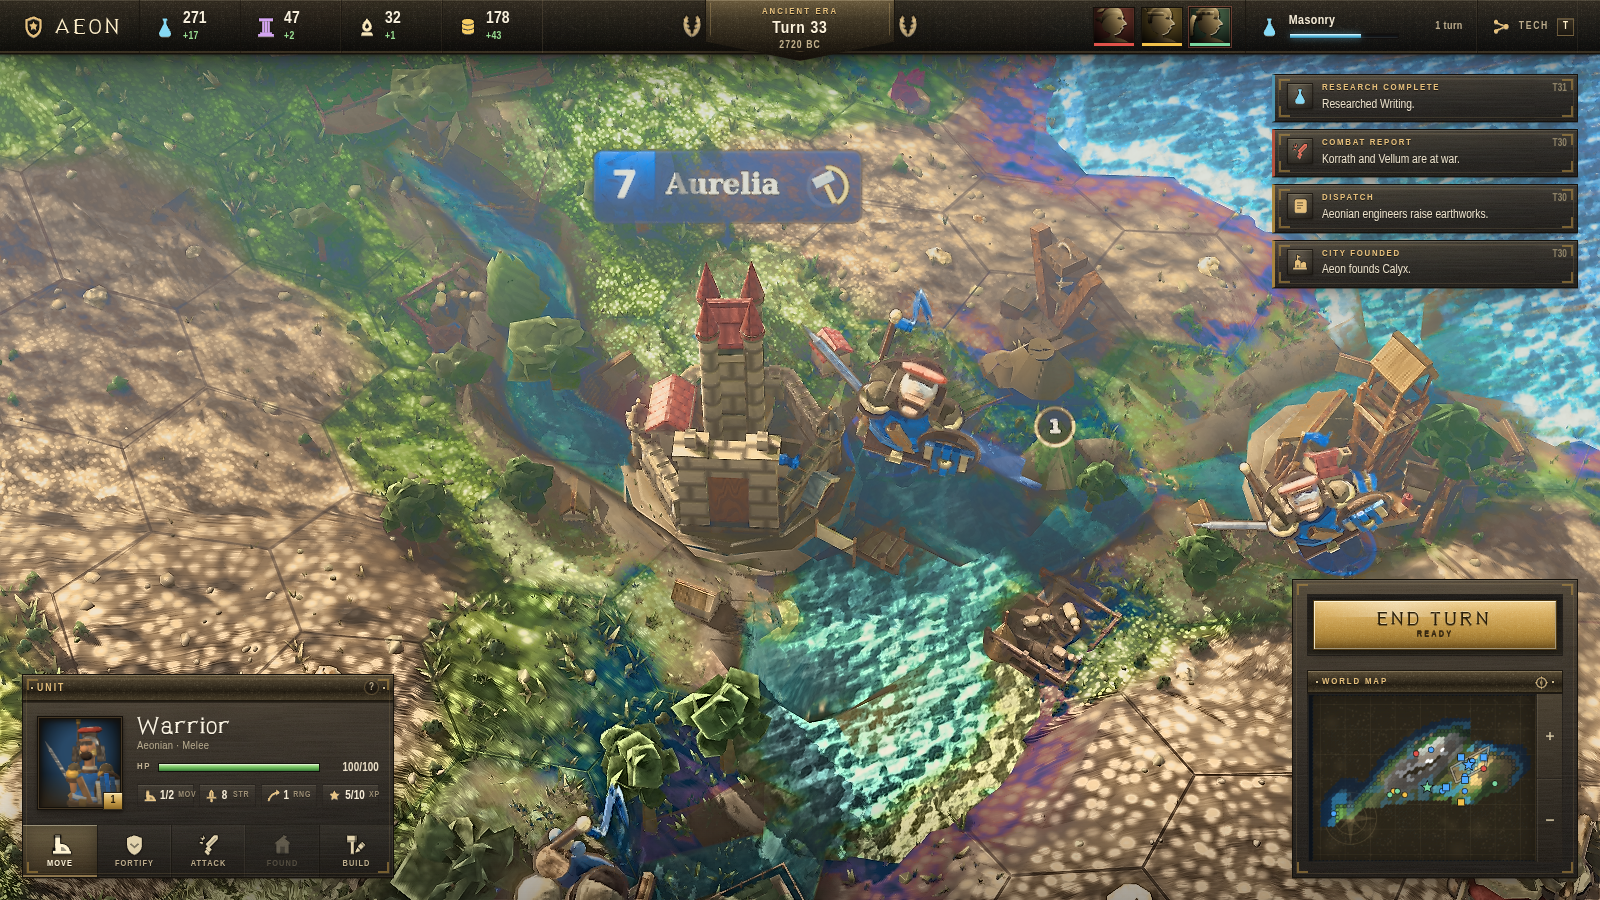
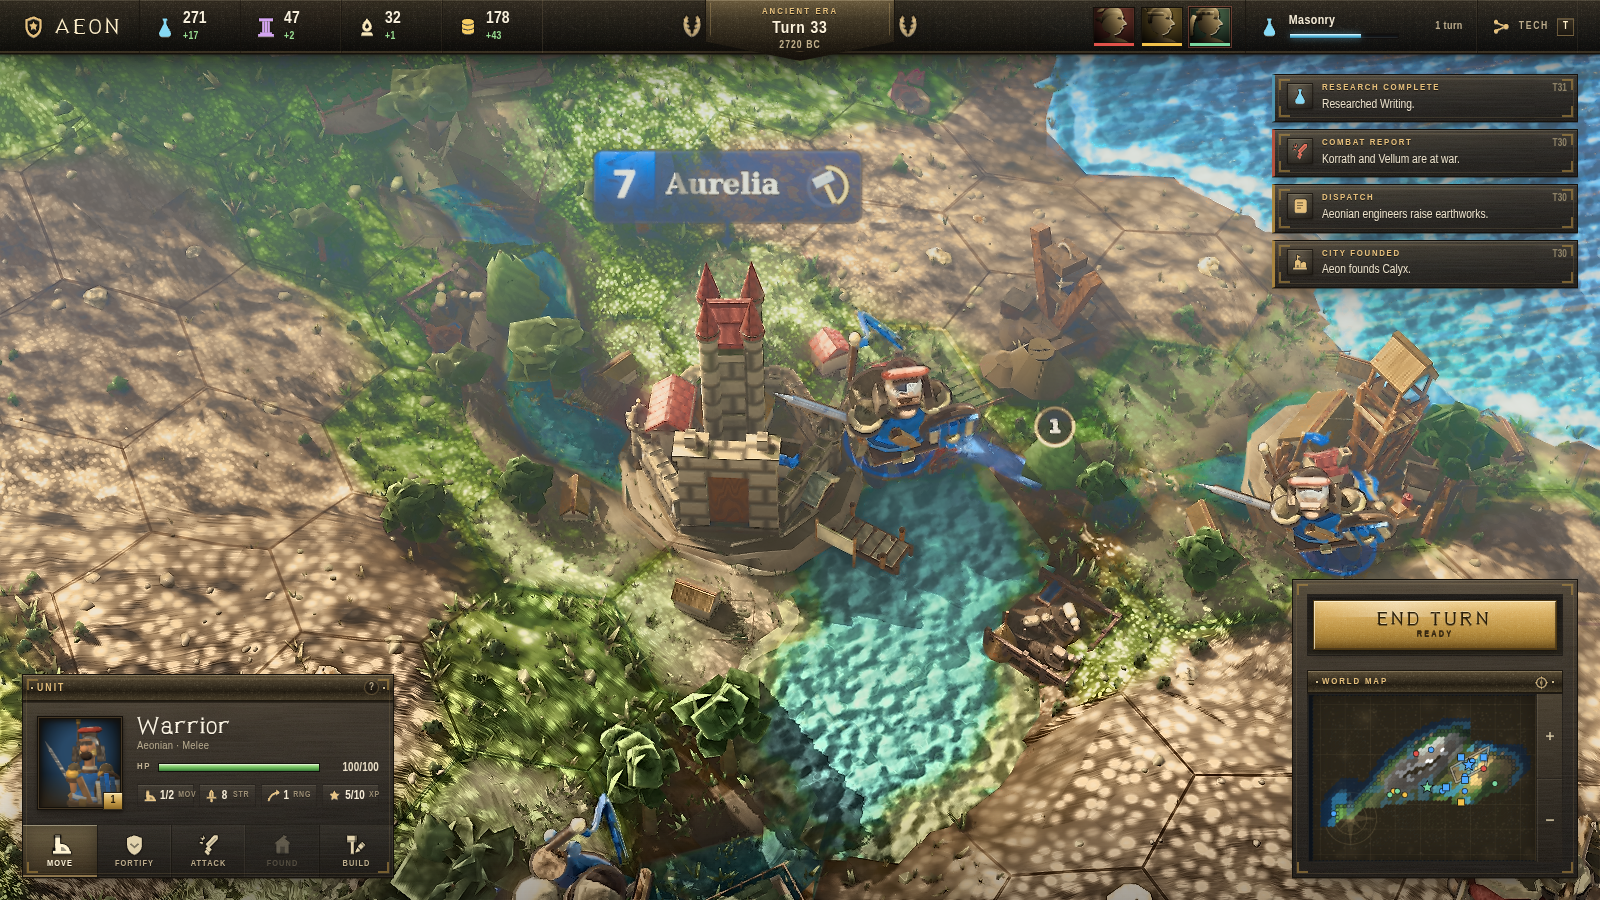
release: final hero/wide/close frames, per-axis scores and the honest defect list

diff --git a/docs/RESUME.md b/docs/RESUME.md
@@ -1,33 +1,96 @@
-# Resume notes — paused 2026-08-23
+# Resume notes — paused 2026-08-25 (end of phase 9)
 
 ## State
-- Whole-frame referee score: **50/100** (baseline before phase 7 was 34).
-- `node tools/sim.mjs` passes: 260 turns, 26 cities, 32 techs, 11 wars, culture victory.
-- Latest frame: `shots/pause-state.png` (also `shots/p7-state.png` at full 1600x900).
-- Phase 8 was stopped mid bug-sweep. The tree renders clean and the sim passes; the partial
-  bug-sweep edits to terrain.js / water.js / grid.js are committed as WIP.
+Referee scores the whole frame on six independent axes. Standing frame at HEAD:
 
-## To restart
-1. Start the dev server (nothing else needs it running):
-   `cd /home/piotr/looping_opus_5_test && setsid nohup npx vite --port 5173 --strictPort >/tmp/vite.log 2>&1 &`
-2. Confirm it renders: `node tools/shot.mjs shots/check.png 1600 900`  (~2 min, waits for TAA convergence)
-3. Resume phase 8 where it stopped:
-   Workflow({scriptPath: "/home/piotr/.claude/projects/-home-piotr-looping-opus-5-test/84ea964d-d52e-4edb-b9b4-0c17044a7b69/workflows/scripts/aeon-phase8-bugs-then-craft-wf_7c4f128b-3ca.js", resumeFromRunId: "wf_7c4f128b-3ca"})
+| axis | score | what it measures |
+|---|---|---|
+| lighting | **18** / 30 | cast shadows landing, contact AO, one unifying sun, shadow hue within ~10° of lit hue |
+| material | **9** / 20 | world-space detail shrinking with distance, no confetti, no flat-matte |
+| readability | **8** / 15 | hex grid legible everywhere incl. mountains, biomes distinguishable |
+| units | **3** / 15 | silhouettes nameable at gameplay zoom, grounded, not clay |
+| colour | **6** / 10 | palette compliance, no cast, aerial perspective lighter-cooler-desaturated |
+| finish | **5** / 10 | no mesh holes, blown voids, aliasing, streaks, z-fighting, clipped UI |
+| **total** | **49** / 100 | |
+
+- `node tools/sim.mjs` passes: 260 turns, 26 cities, 32 techs, 11 wars, culture victory.
+- `npx vite build` succeeds; the site deploys from `dist/`.
+- Latest frames: `shots/final-hero.png`, `shots/final-wide.png`, `shots/final-close.png` (1600x900,
+  directed via `?shot=hero|wide|close`; each captured `blank:false errors:[]`).
+- The objective gate still **FAILS** on the released frame. Measured on `shots/final-hero.png`
+  (`node tools/metrics.mjs shots/final-hero.png 200,120,200,140:far-rock 700,430,200,140:mid-sand 620,760,200,140:near-sand 1150,200,240,160:water`):
+
+  | region | mean | sat | hue | HF_rms | MID/HF |
+  |---|---|---|---|---|---|
+  | far-rock | 121.3 | 0.317 | 34.5 | 14.64 | 1.00 |
+  | mid-sand | 100.0 | 0.460 | 65.5 | **23.69** | 1.10 |
+  | near-sand | 106.9 | **0.469** | 48.9 | 20.51 | **1.40** |
+  | water | 108.7 | 0.391 | 211.6 | 13.44 | 0.92 |
+
+  near/far HF ramp **1.40** (need ≥ 1.6) · crushed 0.08 · blown 0.00. Four failures: mid-sand HF over
+  the 22 confetti ceiling, near-sand MID/HF over 1.3 (blurry blobs), near-sand saturation over 0.46,
+  and the ramp. Clipping and shadow-hue coherence are the two things that do pass cleanly.
+
+## Phase 9: six attempts, six reverts
+Phase 9 replaced the single noisy total with a per-axis Pareto gate — accept only if **no axis drops
+and at least one gains ≥ 2**. It ran a coherent look pass (terrain + post + water + grid together,
+because the failures were coherence failures no single file could fix) and a units rebuild.
+
+| attempt | total | why it was rejected |
+|---|---|---|
+| look a1 | 48 | material 9 → 8 |
+| look a2 | 39 | lighting 18 → 12, readability 8 → 7, finish 5 → 3 |
+| look a3 | 47 | lighting 18 → 17, material 9 → 8, colour 6 → 5 |
+| units a1 | 44 | material 9 → 6, lighting 18 → 15 |
+| units a2 | **57** | units 3 → 6, lighting 18 → 20, finish 5 → 8 — but material 9 → 8 |
+| units a3 | 52 | units 3 → 6 — but readability 8 → 7 |
+
+Read that table before designing phase 10. **The gate reverted the best frame this project has ever
+rendered.** units a2 gained +8 total across three axes and lost one point of material; the rule as
+written threw it away. A strict "no axis may drop" gate on a judge whose per-axis noise is about ±1
+cannot ratchet — it rejects every real trade. Phase 10 should either allow a bounded trade
+(e.g. accept if Σ gains ≥ Σ losses + 2 and no axis drops by more than 1), score each attempt twice
+and compare means, or freeze the axes an attempt is not allowed to touch and only gate those.
+
+## Outstanding defects, in referee priority order
+1. **Units are not units at gameplay zoom.** Compare the three released frames: in `final-close.png`
+   the figures resolve into sword-and-shield soldiers, but in `final-hero.png` — the distance a player
+   actually plays at — an occupied tile is a strength badge and a contact ring over a mound, and
+   nothing about the silhouette names the unit. Lowest axis (3/15) and the one thing no Civ VI frame
+   lacks. Seven rebuilds have now been reverted; the silhouette work in `units a2` (commit `3263c7f`,
+   reverted in `194d198`) scored the best units axis yet and is the place to restart, not from zero.
+2. **Material is screen-space, not world-space.** Sand reads as blurry pale lozenges, grass as bright
+   confetti. On the released frame the near/far HF ramp is 1.40 against a ≥ 1.6 gate, mid-sand HF is
+   23.69 against a 22 ceiling, and near-sand MID/HF is 1.40 against a 1.3 ceiling — detail is being
+   drawn at pixel scale and blurred at blob scale at the same time. Needs one mipped world-space
+   detail set, not per-region noise.
+3. **Hex grid absent on mountain and rock** (crop `150,80,180,140`) — art-bible non-negotiable #1,
+   still broken after four dedicated passes. Terrain must leave value headroom, grid must adapt alpha
+   to the surface, post must crush neither.
+4. **River reads as a cyan cutout** around `700-840,250-360`: hard-edged, unlit, with a translucent
+   grey-blue slab quad over the tiles. Bed it into the terrain, light it, delete the slab.
+5. **Grass and shallows are acid.** Lit grass measures sat 0.475–0.55 and shallows 0.578 against the
+   bible's 0.30–0.42; near-sand measures 0.469 against the gate's 0.46 ceiling. The palette is
+   documented, it is just not being hit.
+6. **Shadowed rock is flat matte** (shadowed flank at `120,200` measures HF 3.77), plus a hard-edged
+   white snow decal and a black skirt gap near `115,70`.
 
 ## What was learned (do not re-litigate)
-- Parallel agents on shared visual files oscillate: phases 1-6 went 61 -> 34 -> 22. Sequential
-  single-owner passes with a git revert gate produced the only monotonic gain (34 -> 50).
-- One-sided metric targets get gamed: "HF_rms >= 12" was met by spraying per-pixel noise.
+- Parallel agents on shared visual files oscillate: phases 1-6 went 61 → 34 → 22. Sequential
+  single-owner passes with a git revert gate produced the only monotonic gain (34 → 50).
+- One-sided metric targets get gamed: "HF_rms ≥ 12" was met by spraying per-pixel noise.
   `tools/metrics.mjs` now bounds detail on both sides and requires a near/far detail ramp.
+- A per-axis gate stops axes being traded away silently, but a *strict* one cannot ratchet against a
+  noisy judge — see the phase 9 table above.
 - The screenshot harness must wait on rendered-frame count, not wall-clock: at ~1 fps under
   software WebGL a timed wait captures an unconverged TAA frame, which produced dozens of
   bogus "near-field is blurry" critiques.
 - `?nopost=1` renders the raw scene — the fastest way to tell a shading bug from a post bug.
+- The standard metrics boxes assume a 1600x900 capture. At the 1200x675 fast-loop size `620,760` is
+  off-canvas and `1150,200` lands on the notification rail, so the gate silently measures UI.
 
-## Outstanding, in referee priority order
-1. Hex grid invisible on the mountain massif (art-bible non-negotiable #1).
-2. Material detail does not shrink with distance (near/far HF ramp ~1.3-1.4, needs >= 1.6);
-   mid-sand reads as per-pixel confetti (HF ~24 vs 22 ceiling).
-3. Units are clay — nothing nameable from silhouette, no contact AO. Lowest-scoring subsystem in every pass.
-4. Violet/mauve slab over the coastal shallows; rivers still read as flat cyan ribbons.
-5. Mountain mesh: blown white voids, holes, self-intersecting shells, terraced banding instead of strata.
+## To restart
+1. Dev server (nothing else needs it running):
+   `setsid nohup npx vite --port 5173 --strictPort >/tmp/vite.log 2>&1 &`
+2. Confirm it renders: `node tools/shot.mjs shots/check.png 1600 900` (~2 min, waits for TAA convergence)
+3. Read `docs/ART-BIBLE.md` (LOCKED) and `docs/CONTRACT.md` before touching any renderer file.

diff --git a/README.md b/README.md
@@ -5,7 +5,7 @@ no external art: every texture, mesh, shader and icon is generated in code at lo
 
 **[Play it](https://qmw.github.io/aeon/)** · MIT licensed
 
-![AEON](shots/p7-state.png)
+![AEON](shots/final-hero.png)
 
 ## What's in it
 
@@ -70,6 +70,30 @@ generated a long run of bogus "the near field is blurry" critiques before anyone
 
 ## Status
 
-Playable and complete as a game loop; the renderer is still short of its target. Blind judging still
-picks real Civilization VI, and the outstanding defects are listed in `docs/RESUME.md`. Contributions
-welcome — the art bible and the metric gate are the two things to read first.
+The **game** is done: a full match plays start to finish, the 260-turn headless simulation passes
+every invariant, and `npx vite build` ships a static bundle.
+
+The **renderer** is not. A referee agent scores the frame against a real Civilization VI screenshot
+on six independent axes; the current frame stands at **49/100**:
+
+| lighting | material | readability | units | colour | finish | total |
+|---|---|---|---|---|---|---|
+| 18/30 | 9/20 | 8/15 | **3/15** | 6/10 | 5/10 | **49/100** |
+
+Honestly stated: blind judging still picks the real Civ VI immediately. Units are the worst of it —
+close up they resolve into soldiers, but at the distance you actually play at an occupied tile is a
+strength badge and a contact ring over a mound, and the silhouette names nothing. Ground material is screen-space rather than world-space, so detail does not shrink with
+distance. The hex grid still vanishes on mountain tiles, which breaks the art bible's first
+non-negotiable. Rivers read as flat cyan cutouts. The objective gate agrees: `tools/metrics.mjs` on
+the shipped frame still fails, with the near/far detail ramp at 1.40 against a 1.6 target. All six
+defects are written up in priority order, with the measurements behind them, in `docs/RESUME.md`.
+
+Nine phases in, the whole-frame score went 61 → 34 → 22 under parallel agents, then climbed to 50
+under sequential single-owner passes with a revert gate; the six-axis rubric above re-scored that same
+frame at 49, and the latest phase then reverted all six of its attempts. The most useful thing in this
+repo may be that record: `docs/RESUME.md` documents which gate designs ratcheted and which stalled —
+including one so strict it threw away the best frame the project ever rendered over a single point on
+a single axis.
+
+Contributions welcome — `docs/ART-BIBLE.md` (the locked direction) and `tools/metrics.mjs` (the
+objective gate) are the two things to read first.
